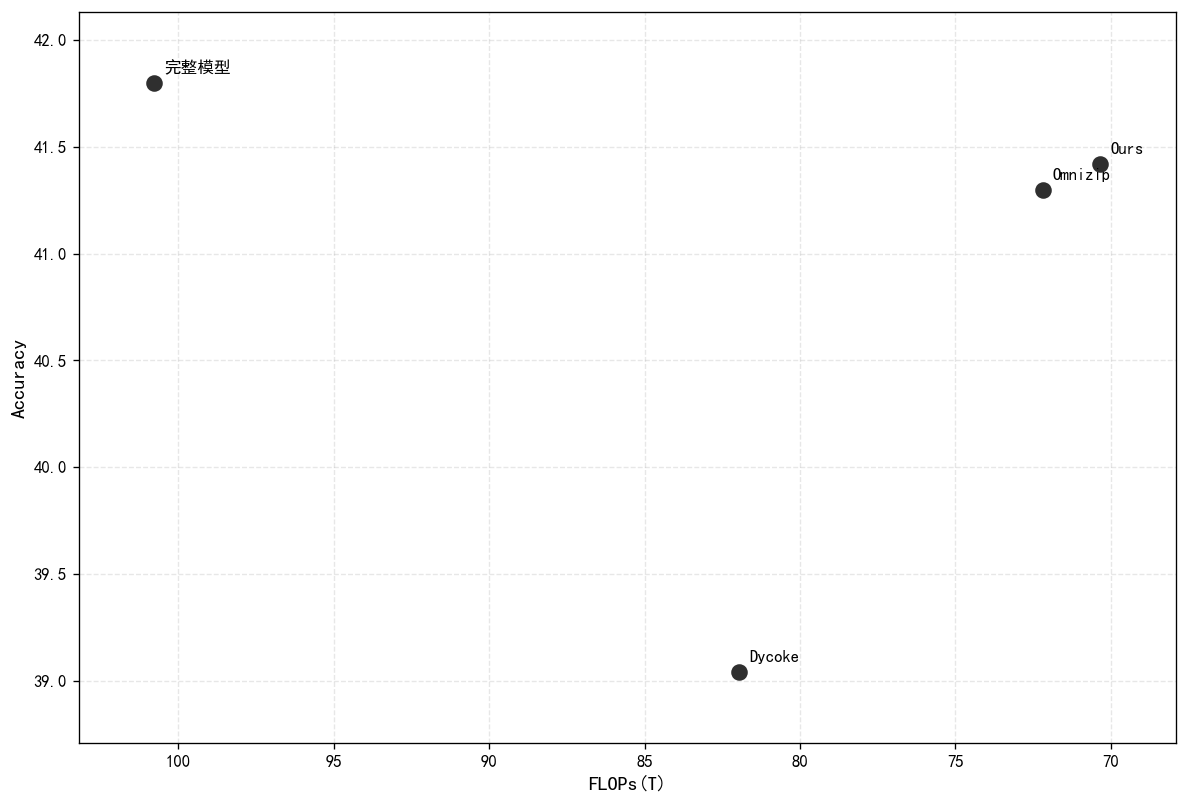
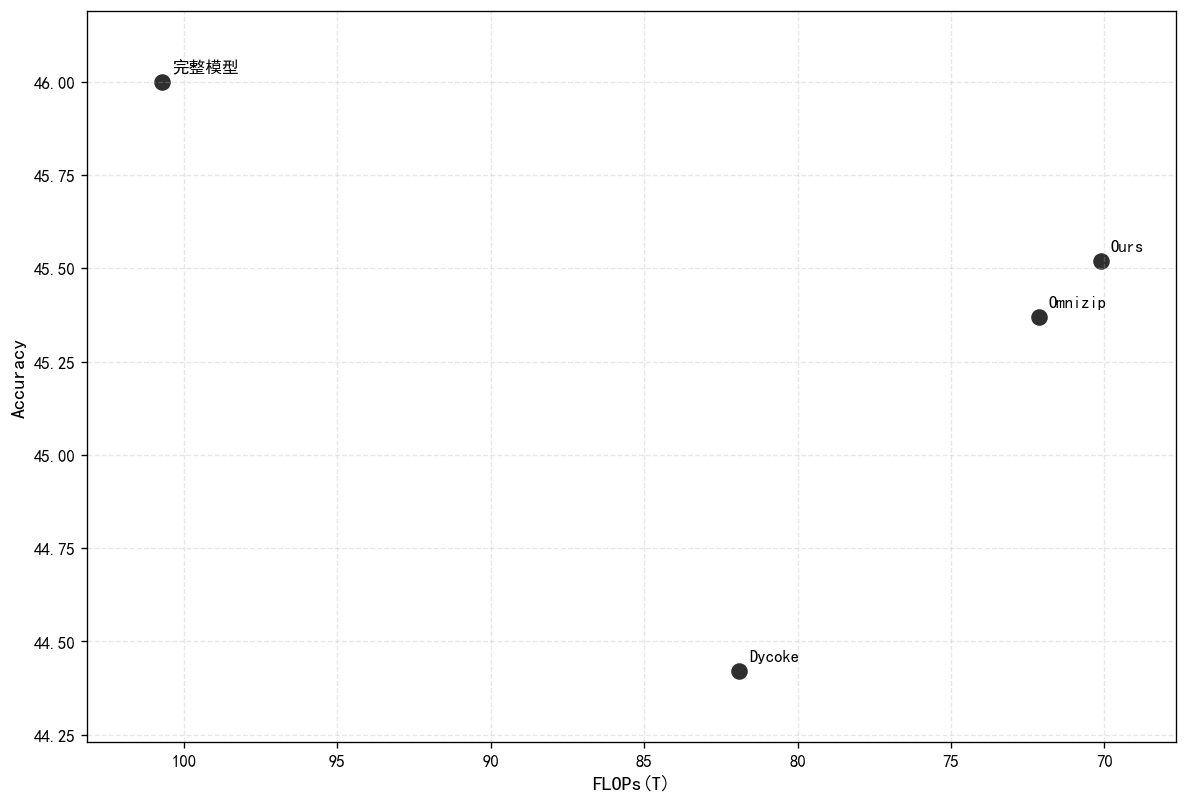
modified:   src/content/blog/2_week14/assets/2.png 	renamed:    src/content/blog/2_week14/index.md -> src/content/blog/2_week14/index.mdx 	modified:   src/content/blog/2_week9/1.ipynb 	modified:   src/content/blog/2_week9/assets/2.png 	new file:   src/content/blog/3_week1/assets/2.5vl_score.png 	new

diff --git a/src/content/blog/3_week1/index.md b/src/content/blog/3_week1/index.md
@@ -1,0 +1,71 @@
+---
+title: 'week1 Record '
+publishDate: '2026-09-15'
+updatedDate: '2026-09-17'
+description: ''
+tags:
+    - Record
+    - Weekly_work
+    - PaperReading
+language: '中文'
+---
+
+## Record
+
+### 本周工作
+
+### Qwen2.5-omni 3B
+
+分数-性能
+
+![](assets/result.png)
+
+Pearson r = 0.801938083380053
+
+#### 与其他方法的对比
+
+| Methods | TFLOPs ↓ | Token 预算 | Acc |
+|:--------|:-----|:------|:------|
+| Full | 100.69 | 100% |  46.00 |
+| Random | 75.86 | 35% | 43.44 |
+| Dycoke(2024.11) | 81.81 | 50% | 43.66  |
+| OmniZip(2025.11) | 72.04 | 45% | 45.37 |
+| OmniSIFT(2026.2,未测试) | - | 35% | 45.7(论文中完整模型分数为45.80) |
+| SEATS(2026.5) | 74.72 | 35% | 45.51 |
+| OmniSelect(2026.5,未测试) | - | 45% | 45.08(论文中完整模型分数为45.62)|
+| OmniFocus(2026.7) | -(统计中) | 35% | 45.29 |
+| Ours | 70.11 | 33.5% | 45.52 |
+
+
+![](assets/2.png)
+
+### Qwen2.5-vl 7B
+
+×
+
+### llava-v1.5-7b
+
+分数-性能
+
+![](assets/llava.png)
+
+Pearson  r   = 0.8752950645
+Pearson  R^2 = 0.7661414499
+
+#### 与其他模型的对比
+
+llava-v1.5-7b
+
+| Methods | TFLOPs ↓ | MME ↑ | MMMU acc ↑ |
+|:--------|:-----|:------|:------|
+| Full | 3.233 | 1509.97 |  36.43 |
+| FastV(2024) | 1.869 | 1422.18 | 33.13 |
+| VTW (K=16)(2024.5) | 1.782 | 1442.67 | 35.60 |
+| DivPrune(2025.4) | 0.512 | 1328.3 | 35.89 |
+| Ours(14) | 1.670 | 1498.33 | 36.17 |
+
+![](assets/output.png)
+
+
+
+
